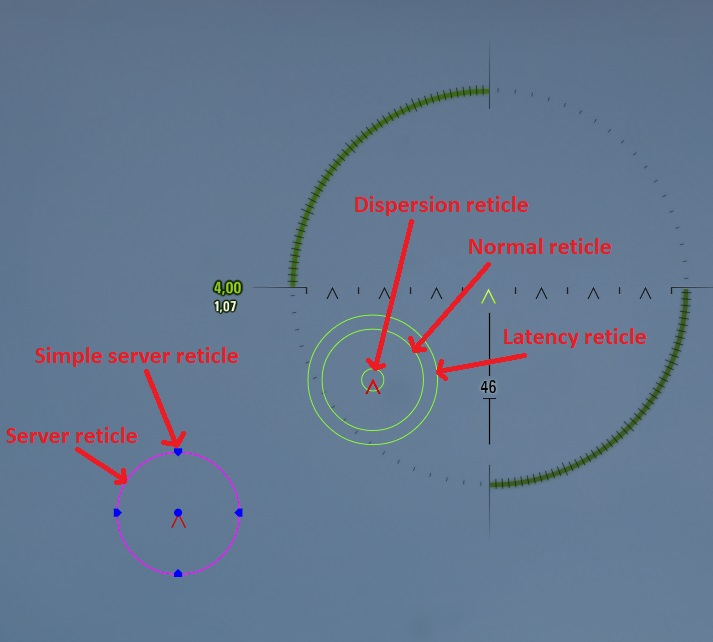
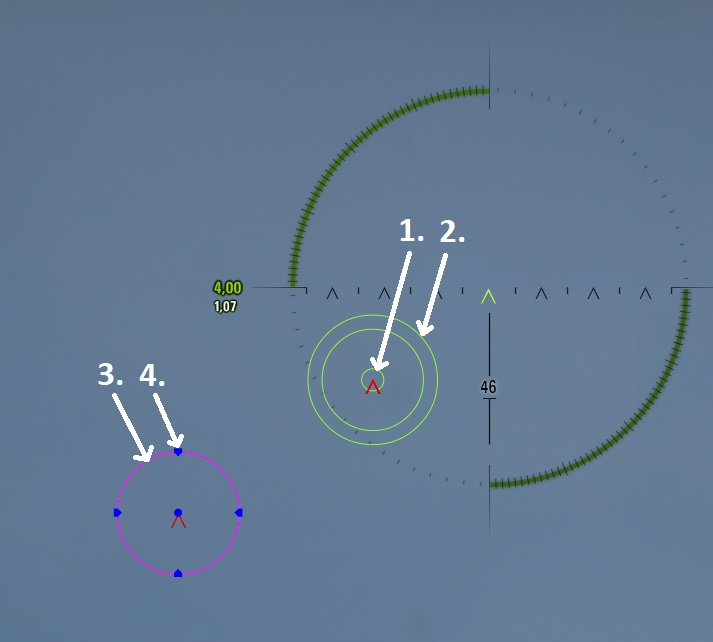
Modified images and translations

Changed region(s): [[0.4937, 0.2804, 0.9257, 0.5919], [0.0, 0.5296, 0.3394, 0.7788]]

diff --git a/src/dispersionreticle/support/mods_settings_api_support.py b/src/dispersionreticle/support/mods_settings_api_support.py
@@ -128,9 +128,9 @@ def _createDispersionReticlePart():
     return [
         {
             "type": "Label",
-            "text": Tr.DISPERSION_RETICLE_PART_LABEL,
+            "text": "1. " + Tr.DISPERSION_RETICLE_PART_LABEL,
             "tooltip": createTooltip(
-                header=Tr.DISPERSION_RETICLE_PART_HEADER,
+                header="1. " + Tr.DISPERSION_RETICLE_PART_HEADER,
                 body=Tr.DISPERSION_RETICLE_PART_BODY + "\n",
                 note=Tr.DISPERSION_RETICLE_PART_NOTE + "\n\n" + _createImg(src="imgs/all.jpg", width=475, height=428)
             ),
@@ -145,10 +145,8 @@ def _createDispersionReticlePart():
 def _emptyLine():
     return [
         {
-            "type": "Empty"
-        },
-        {
-            "type": "Empty"
+            "type": "Label",
+            "text": "________________________________________"
         }
     ]
 
@@ -157,9 +155,9 @@ def _createLatencyReticlePart():
     return [
         {
             "type": "Label",
-            "text": Tr.LATENCY_RETICLE_PART_LABEL,
+            "text": "2. " + Tr.LATENCY_RETICLE_PART_LABEL,
             "tooltip": createTooltip(
-                header=Tr.LATENCY_RETICLE_PART_HEADER,
+                header="2. " + Tr.LATENCY_RETICLE_PART_HEADER,
                 body=Tr.LATENCY_RETICLE_PART_BODY + "\n",
                 note=Tr.LATENCY_RETICLE_PART_NOTE + "\n\n" + _createImg(src="imgs/all.jpg", width=475, height=428)
             ),
@@ -180,9 +178,9 @@ def _createServerReticlePart():
     return [
         {
             "type": "Label",
-            "text": Tr.SERVER_RETICLE_PART_LABEL,
+            "text": "3. " + Tr.SERVER_RETICLE_PART_LABEL,
             "tooltip": createTooltip(
-                header=Tr.SERVER_RETICLE_PART_HEADER,
+                header="3. " + Tr.SERVER_RETICLE_PART_HEADER,
                 body=Tr.SERVER_RETICLE_PART_BODY + "\n\n" + _createImg(src="imgs/all.jpg", width=475, height=428)
             ),
         },
@@ -197,9 +195,9 @@ def _createSimpleServerReticlePart():
     return [
         {
             "type": "Label",
-            "text": Tr.SIMPLE_SERVER_RETICLE_PART_LABEL,
+            "text": "4. " + Tr.SIMPLE_SERVER_RETICLE_PART_LABEL,
             "tooltip": createTooltip(
-                header=Tr.SIMPLE_SERVER_RETICLE_PART_HEADER,
+                header="4. " + Tr.SIMPLE_SERVER_RETICLE_PART_HEADER,
                 body=Tr.SIMPLE_SERVER_RETICLE_PART_BODY + "\n",
                 attention=Tr.SIMPLE_SERVER_RETICLE_PART_ATTENTION + "\n\n" +
                           _createImg(src="imgs/all.jpg", width=475, height=428)

diff --git a/src/dispersionreticle/settings/config_param.py b/src/dispersionreticle/settings/config_param.py
@@ -37,10 +37,10 @@ class ConfigParams(object):
         self.simpleServerReticleShape = OptionsParam(
             ["simple-server-reticle", "shape"],
             [
-                Option("pentagon", 0, Tr.SIMPLE_SERVER_RETICLE_PART_SHAPE_OPTION_PENTAGON),
-                Option("t-shape", 1, Tr.SIMPLE_SERVER_RETICLE_PART_SHAPE_OPTION_T_SHAPE),
-                Option("circle", 2, Tr.SIMPLE_SERVER_RETICLE_PART_SHAPE_OPTION_CIRCLE),
-                Option("dashed", 3, Tr.SIMPLE_SERVER_RETICLE_PART_SHAPE_OPTION_DASHED)
+                Option("pentagon", 0, "1. " + Tr.SIMPLE_SERVER_RETICLE_PART_SHAPE_OPTION_PENTAGON),
+                Option("t-shape", 1, "2. " + Tr.SIMPLE_SERVER_RETICLE_PART_SHAPE_OPTION_T_SHAPE),
+                Option("circle", 2, "3. " + Tr.SIMPLE_SERVER_RETICLE_PART_SHAPE_OPTION_CIRCLE),
+                Option("dashed", 3, "4. " + Tr.SIMPLE_SERVER_RETICLE_PART_SHAPE_OPTION_DASHED)
             ],
             defaultValue="pentagon"
         )
